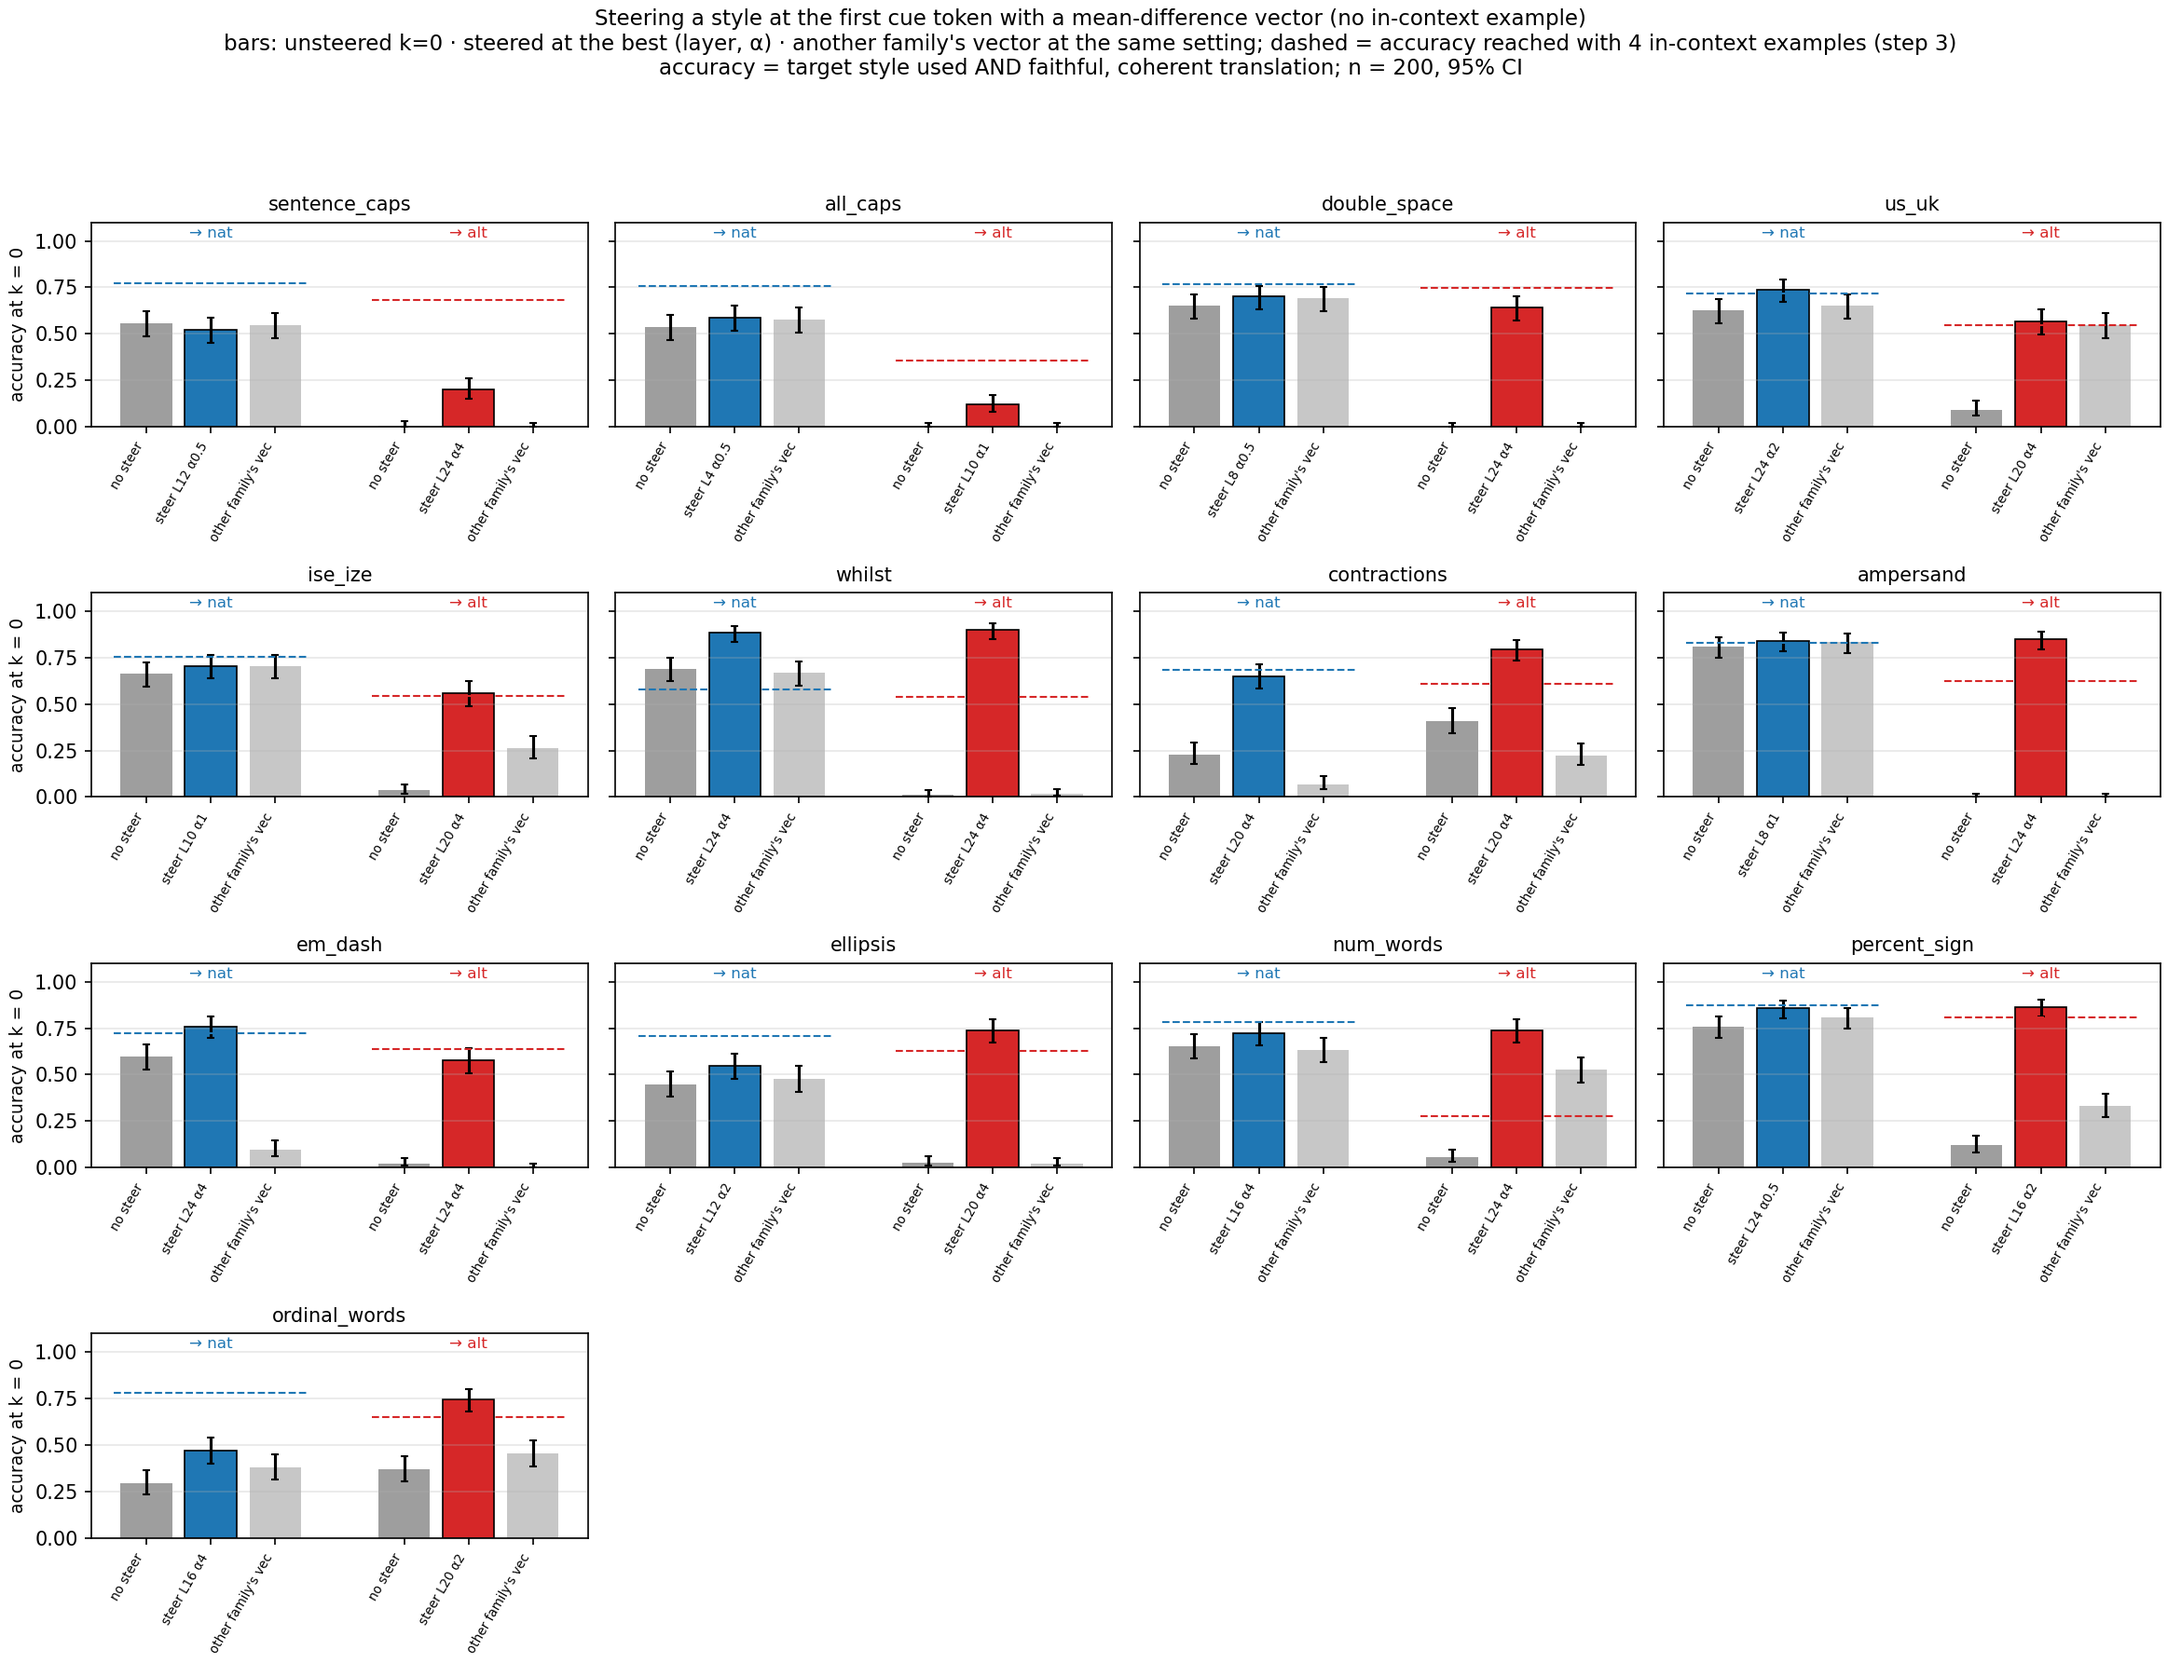
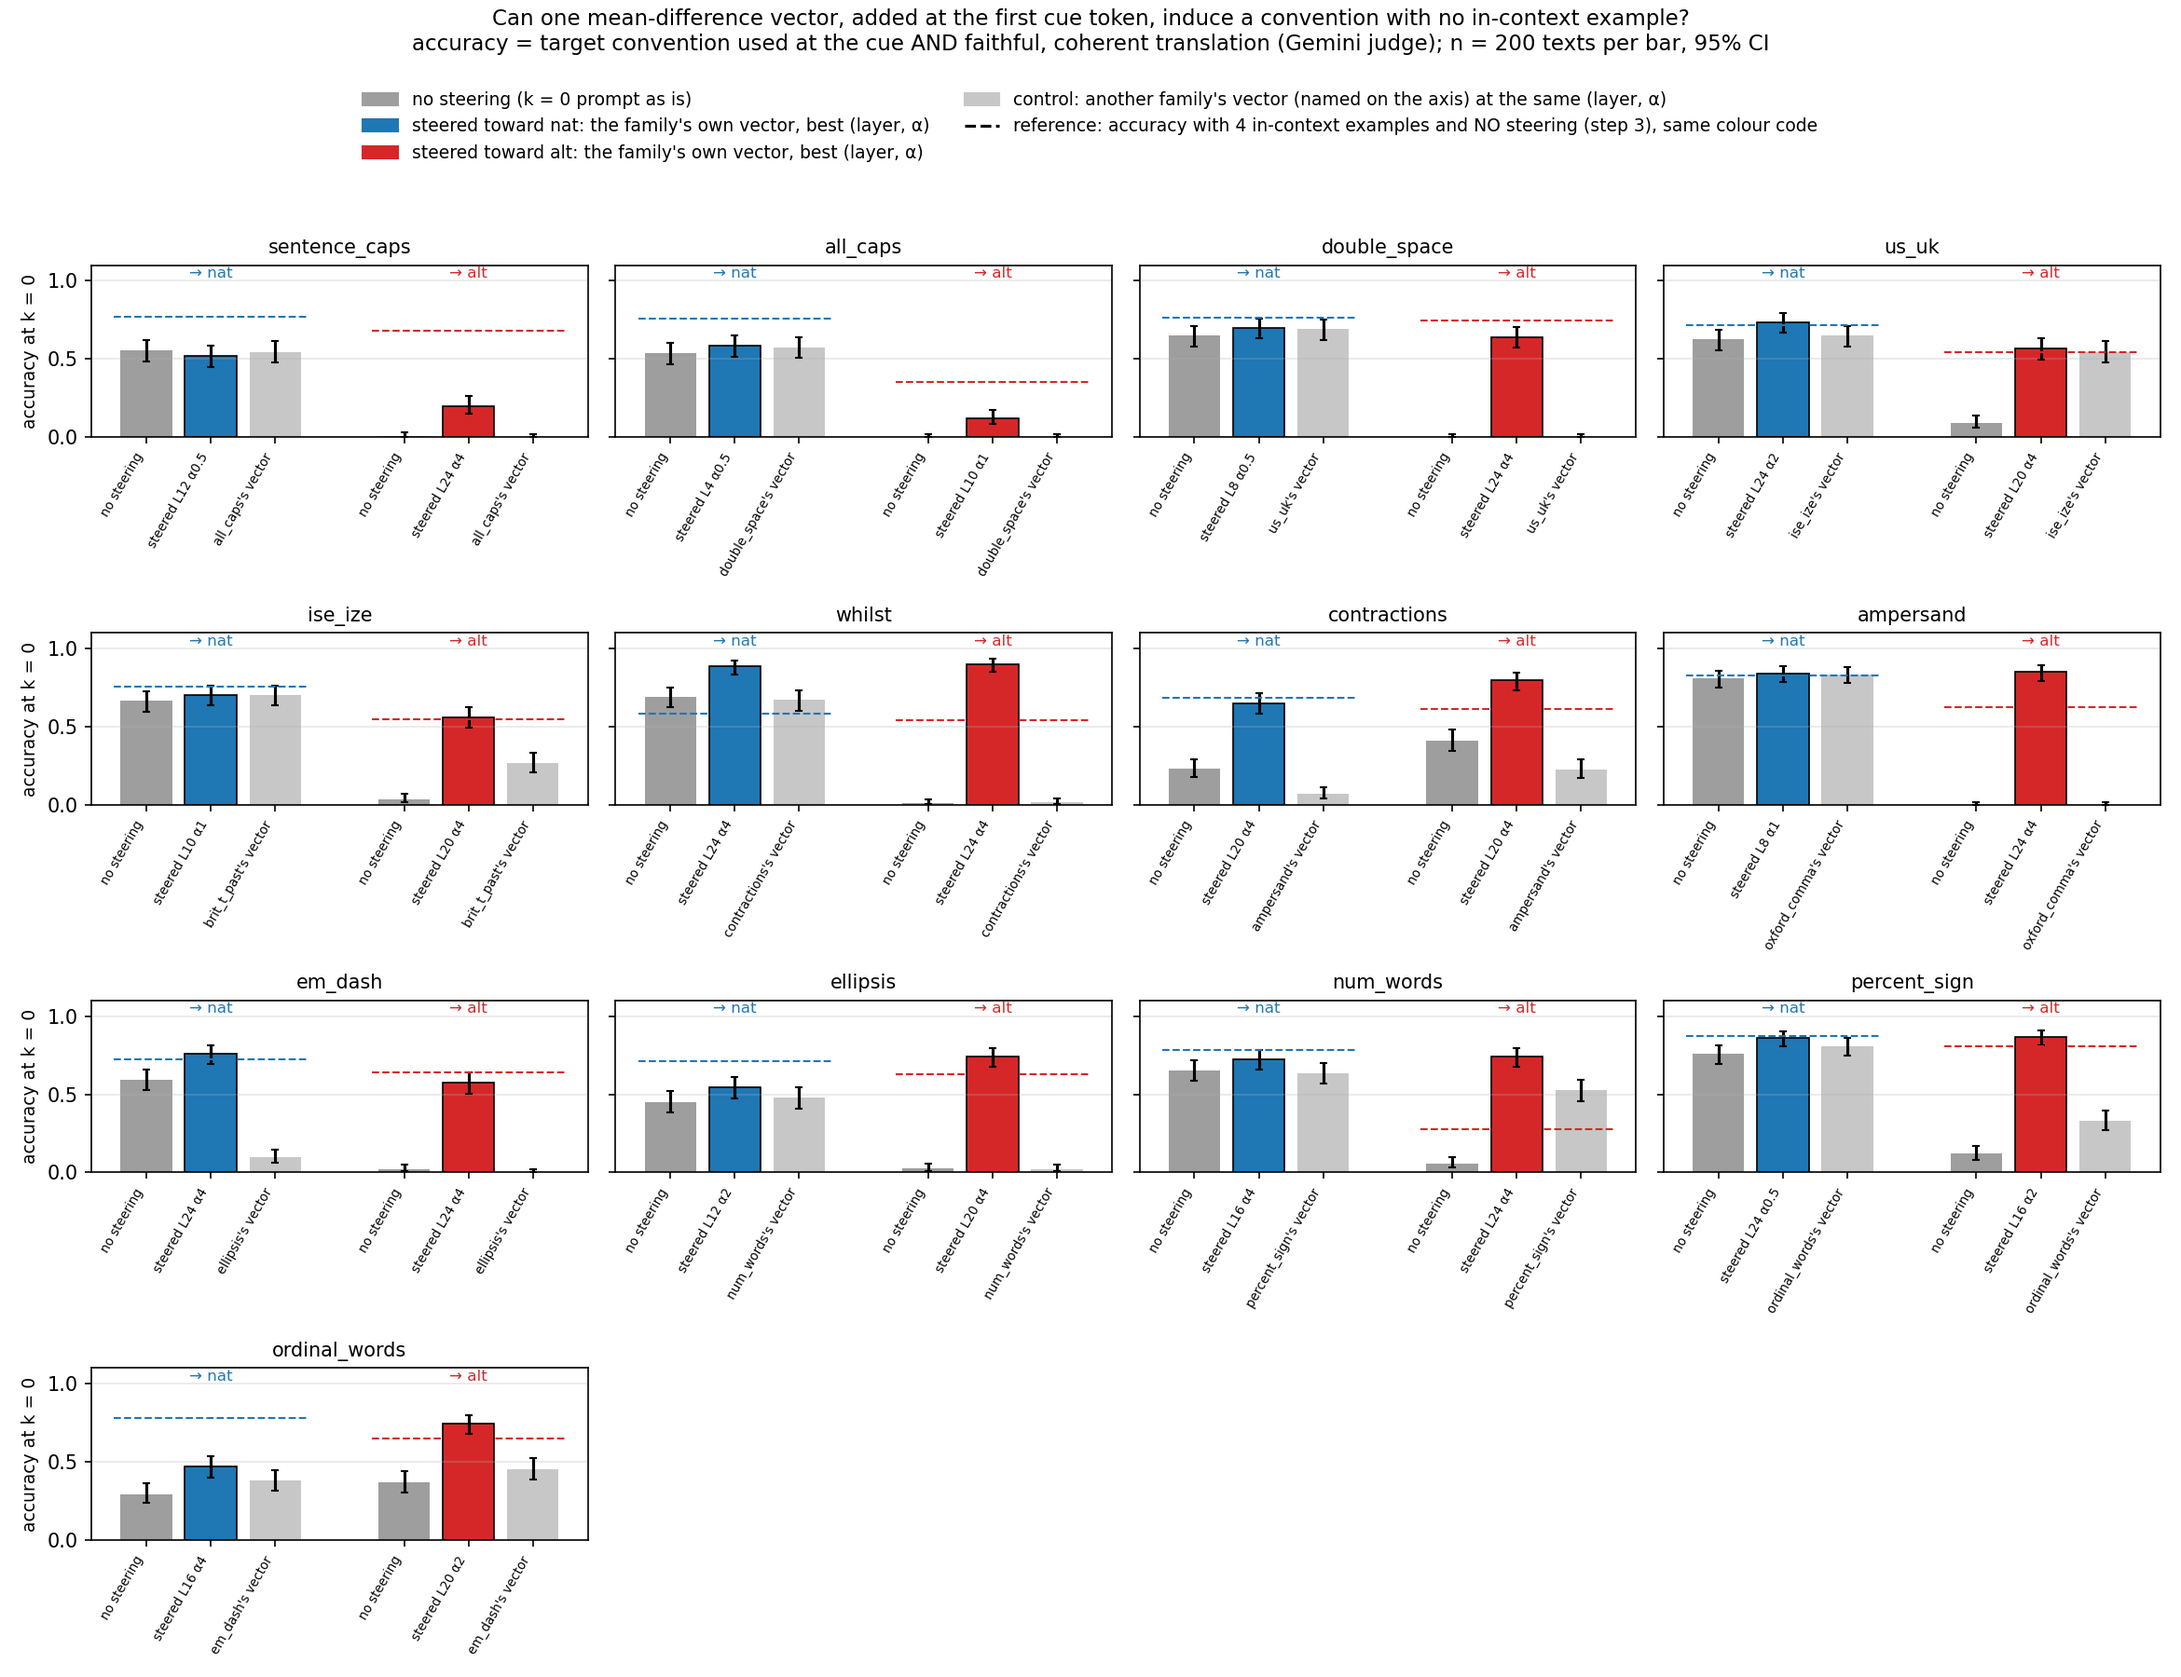
steering summary figure: legend for the k=4 reference, named control family; README: us_uk/ise_ize vector geometry

diff --git a/src/sandbox/style_translation/steer_analyze.py b/src/sandbox/style_translation/steer_analyze.py
@@ -119,7 +119,8 @@ def main():
             base = [r for r in rows if r["family"] == fam and r["target"] == target and r["arm"] == "base"][0]
             b = best[(fam, target)]
             cf = [r for r in rows if r["family"] == fam and r["target"] == target and r["arm"] == f"{target}_cf"][0]
-            for j, (r, col, lab) in enumerate(((base, C["base"], "no steer"), (b, C["steer"][target], f"steer L{b['layer']} α{b['alpha']:g}"), (cf, C["cf"], "other family's vec"))):
+            for j, (r, col, lab) in enumerate(((base, C["base"], "no steering"), (b, C["steer"][target], f"steered L{b['layer']} α{b['alpha']:g}"),
+                                              (cf, C["cf"], f"{cf['cf_family']}'s vector"))):
                 ax.bar(x + j, r["accuracy"], color=col, edgecolor="black" if j == 1 else "none", linewidth=0.8,
                        yerr=[[r["accuracy"] - r["ci_lo"]], [r["ci_hi"] - r["accuracy"]]], capsize=2)
                 ticks.append(x + j); labels.append(lab)
@@ -134,11 +135,18 @@ def main():
         ax.axis("off")
     for ax in axes[::ncol]:
         ax.set_ylabel("accuracy at k = 0", fontsize=9)
-    fig.suptitle("Steering a style at the first cue token with a mean-difference vector (no in-context example)\n"
-                 "bars: unsteered k=0 · steered at the best (layer, α) · another family's vector at the same setting; "
-                 "dashed = accuracy reached with 4 in-context examples (step 3)\n"
-                 "accuracy = target style used AND faithful, coherent translation; n = 200, 95% CI", fontsize=11, y=0.995)
-    fig.tight_layout(rect=(0, 0, 1, 0.95)); fig.savefig(OUT / "steering_summary.png", dpi=150); plt.close(fig)
+    from matplotlib.patches import Patch
+    from matplotlib.lines import Line2D
+    handles = [Patch(color=C["base"], label="no steering (k = 0 prompt as is)"),
+               Patch(color=C["steer"]["nat"], label="steered toward nat: the family's own vector, best (layer, α)"),
+               Patch(color=C["steer"]["alt"], label="steered toward alt: the family's own vector, best (layer, α)"),
+               Patch(color=C["cf"], label="control: another family's vector (named on the axis) at the same (layer, α)"),
+               Line2D([], [], color="black", linestyle="dashed", label="reference: accuracy with 4 in-context examples and NO steering (step 3), same colour code")]
+    fig.legend(handles=handles, loc="upper center", bbox_to_anchor=(0.5, 0.955), ncol=2, fontsize=9, frameon=False)
+    fig.suptitle("Can one mean-difference vector, added at the first cue token, induce a convention with no in-context example?\n"
+                 "accuracy = target convention used at the cue AND faithful, coherent translation (Gemini judge); n = 200 texts per bar, 95% CI",
+                 fontsize=11, y=0.995)
+    fig.tight_layout(rect=(0, 0, 1, 0.91)); fig.savefig(OUT / "steering_summary.png", dpi=150); plt.close(fig)
 
     # ---- screen heatmaps -----------------------------------------------------------------------
     fig, axes = plt.subplots(len(sfams), 2, figsize=(7.5, 1.55 * len(sfams)))

diff --git a/results/style_translation/steering/README.md b/results/style_translation/steering/README.md
@@ -32,7 +32,7 @@ pairs/cue tokens in `dataset_files/style_translation/`.
 
 | file | contents |
 |---|---|
-| `steering_summary.png` | per family: unsteered k = 0 · steered at best (L, α) · other family's vector; dashed = step-3 accuracy at k = 4 |
+| `steering_summary.png` | per family: unsteered k = 0 · steered at best (L, α) · the named other family's vector at the same setting; dashed line = step-3 accuracy with 4 in-context examples and no steering (legend on the figure) |
 | `screen_heatmaps.png` | layer × α target-style rate on the 50-text screen, per family and target |
 | `best_config.csv` | final (L, α) per (family, target) with accuracy, CI, style-only, unscorable, judge OK, base, cf, step-3 k0/k4 |
 | `steering_summary.csv` | every confirm arm (base, top1, top2, cf) per family/target |
@@ -108,6 +108,14 @@ accuracy with 4 in-context examples; "cf" = another family's vector at the same 
    vectors disrupt rather than steer: ellipsis' nat vector at L24 α2 makes em_dash emit `--`
    (unscorable .52, accuracy .59 → .10); all_caps' vector at L20 α4 turns sentence_caps
    completions into ALL CAPS.
+   The us_uk transfer is explained by the vectors themselves: at L20, cos(v_us_uk, v_ise_ize) = 0.52
+   while the median cosine between two families' vectors is 0.01 (90th percentile 0.14; the only other
+   pair above 0.4 is curly_quotes/ellipsis at 0.45). The ise_ize vector is also 1.6× longer than
+   us_uk's, so its projection onto the us_uk direction (8.6) is 85 % of us_uk's own vector (10.1):
+   at the same α it delivers almost the same push along the British-spelling direction. Both
+   vectors are extracted from prompts whose English context so far is British (colour/centre vs
+   organise/realise) — the cue-token state encodes "this text is British English" rather than the
+   specific word class, so either family's vector flips the other's spelling.
 
 ## Provenance / caveats
 - GPT-J-6B fp16, 3 RunPod RTX PRO 4500 Blackwell pods (l0z8ws4hbilpdw / 6v7f5fgbdvd5q9 /

diff --git a/WORKLOG.md b/WORKLOG.md
@@ -9116,3 +9116,5 @@ last-bit BLAS/SVD differences vs the 2026-09-03 file, but not verifiable (old co
 **Lessons:** screen α=0 rates match step-3 k=0 within ±.08 (sanity); style-only screening picks max α, which can cost faithfulness — rank the confirm on full accuracy (done) and consider a lower-α confirm for sentence families; a monitor's remote `ls` of a missing marker returns non-zero and silently skipped every pod (fixed with `; true`); `pkill -f <script>` self-matches the calling shell — bracket the pattern. Pods terminated (~2 h each).
 
 **Next / blockers:** restore the OpenRouter budget (or authorise a different judge — not done unilaterally: it would grade 4 families with a different model), then `judge_rollouts.py --dir artifacts/style_translation/steering/confirm --families brit_t_past oxford_comma curly_quotes quote_punct ellipsis --workers 48` and `steer_analyze.py`; fill the four rows into the README table. Open: ise_ize lexicon inflections (unchanged since step 3).
+
+**Addendum 2026-09-08 (user request):** steering_summary.png now has a legend (dashed = step-3 accuracy with 4 in-context examples, no steering) and names the control family on each axis. us_uk ↔ ise_ize transfer explained by vector geometry: cos 0.52 at L20 (median pair 0.01), ise_ize's projection on the us_uk direction = 85 % of |v_us_uk| — a shared British-English direction at the cue token; added to the README.
